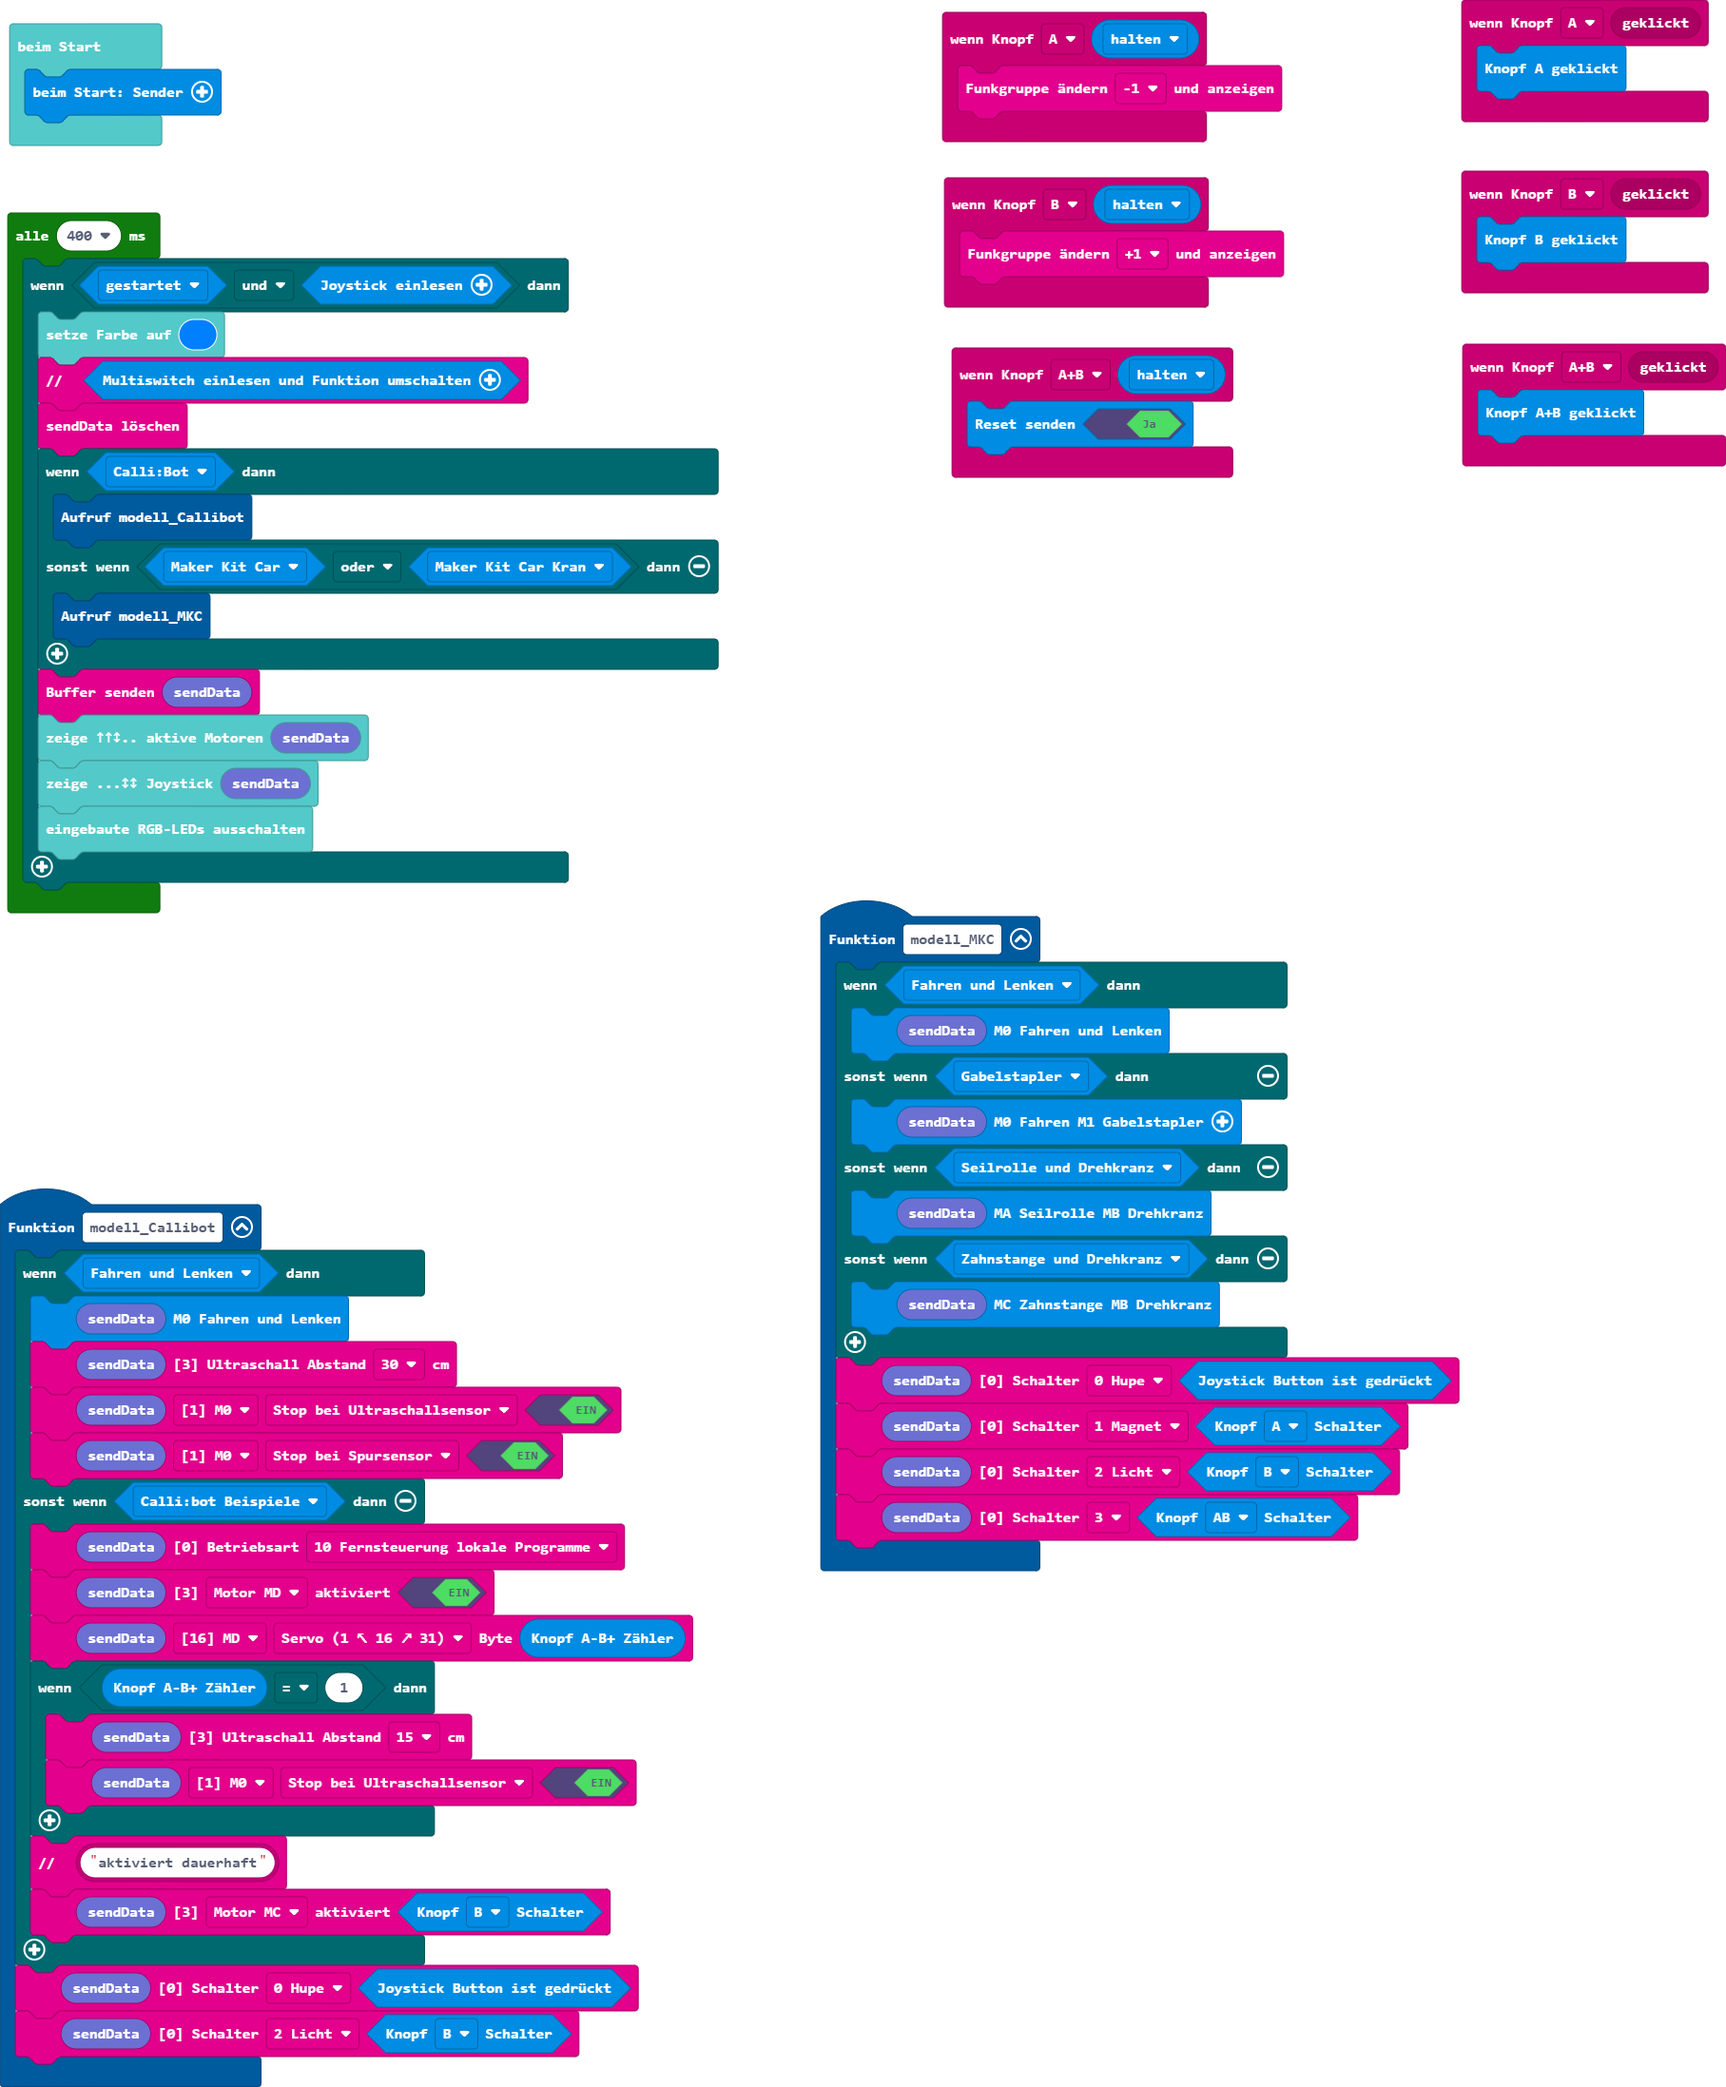
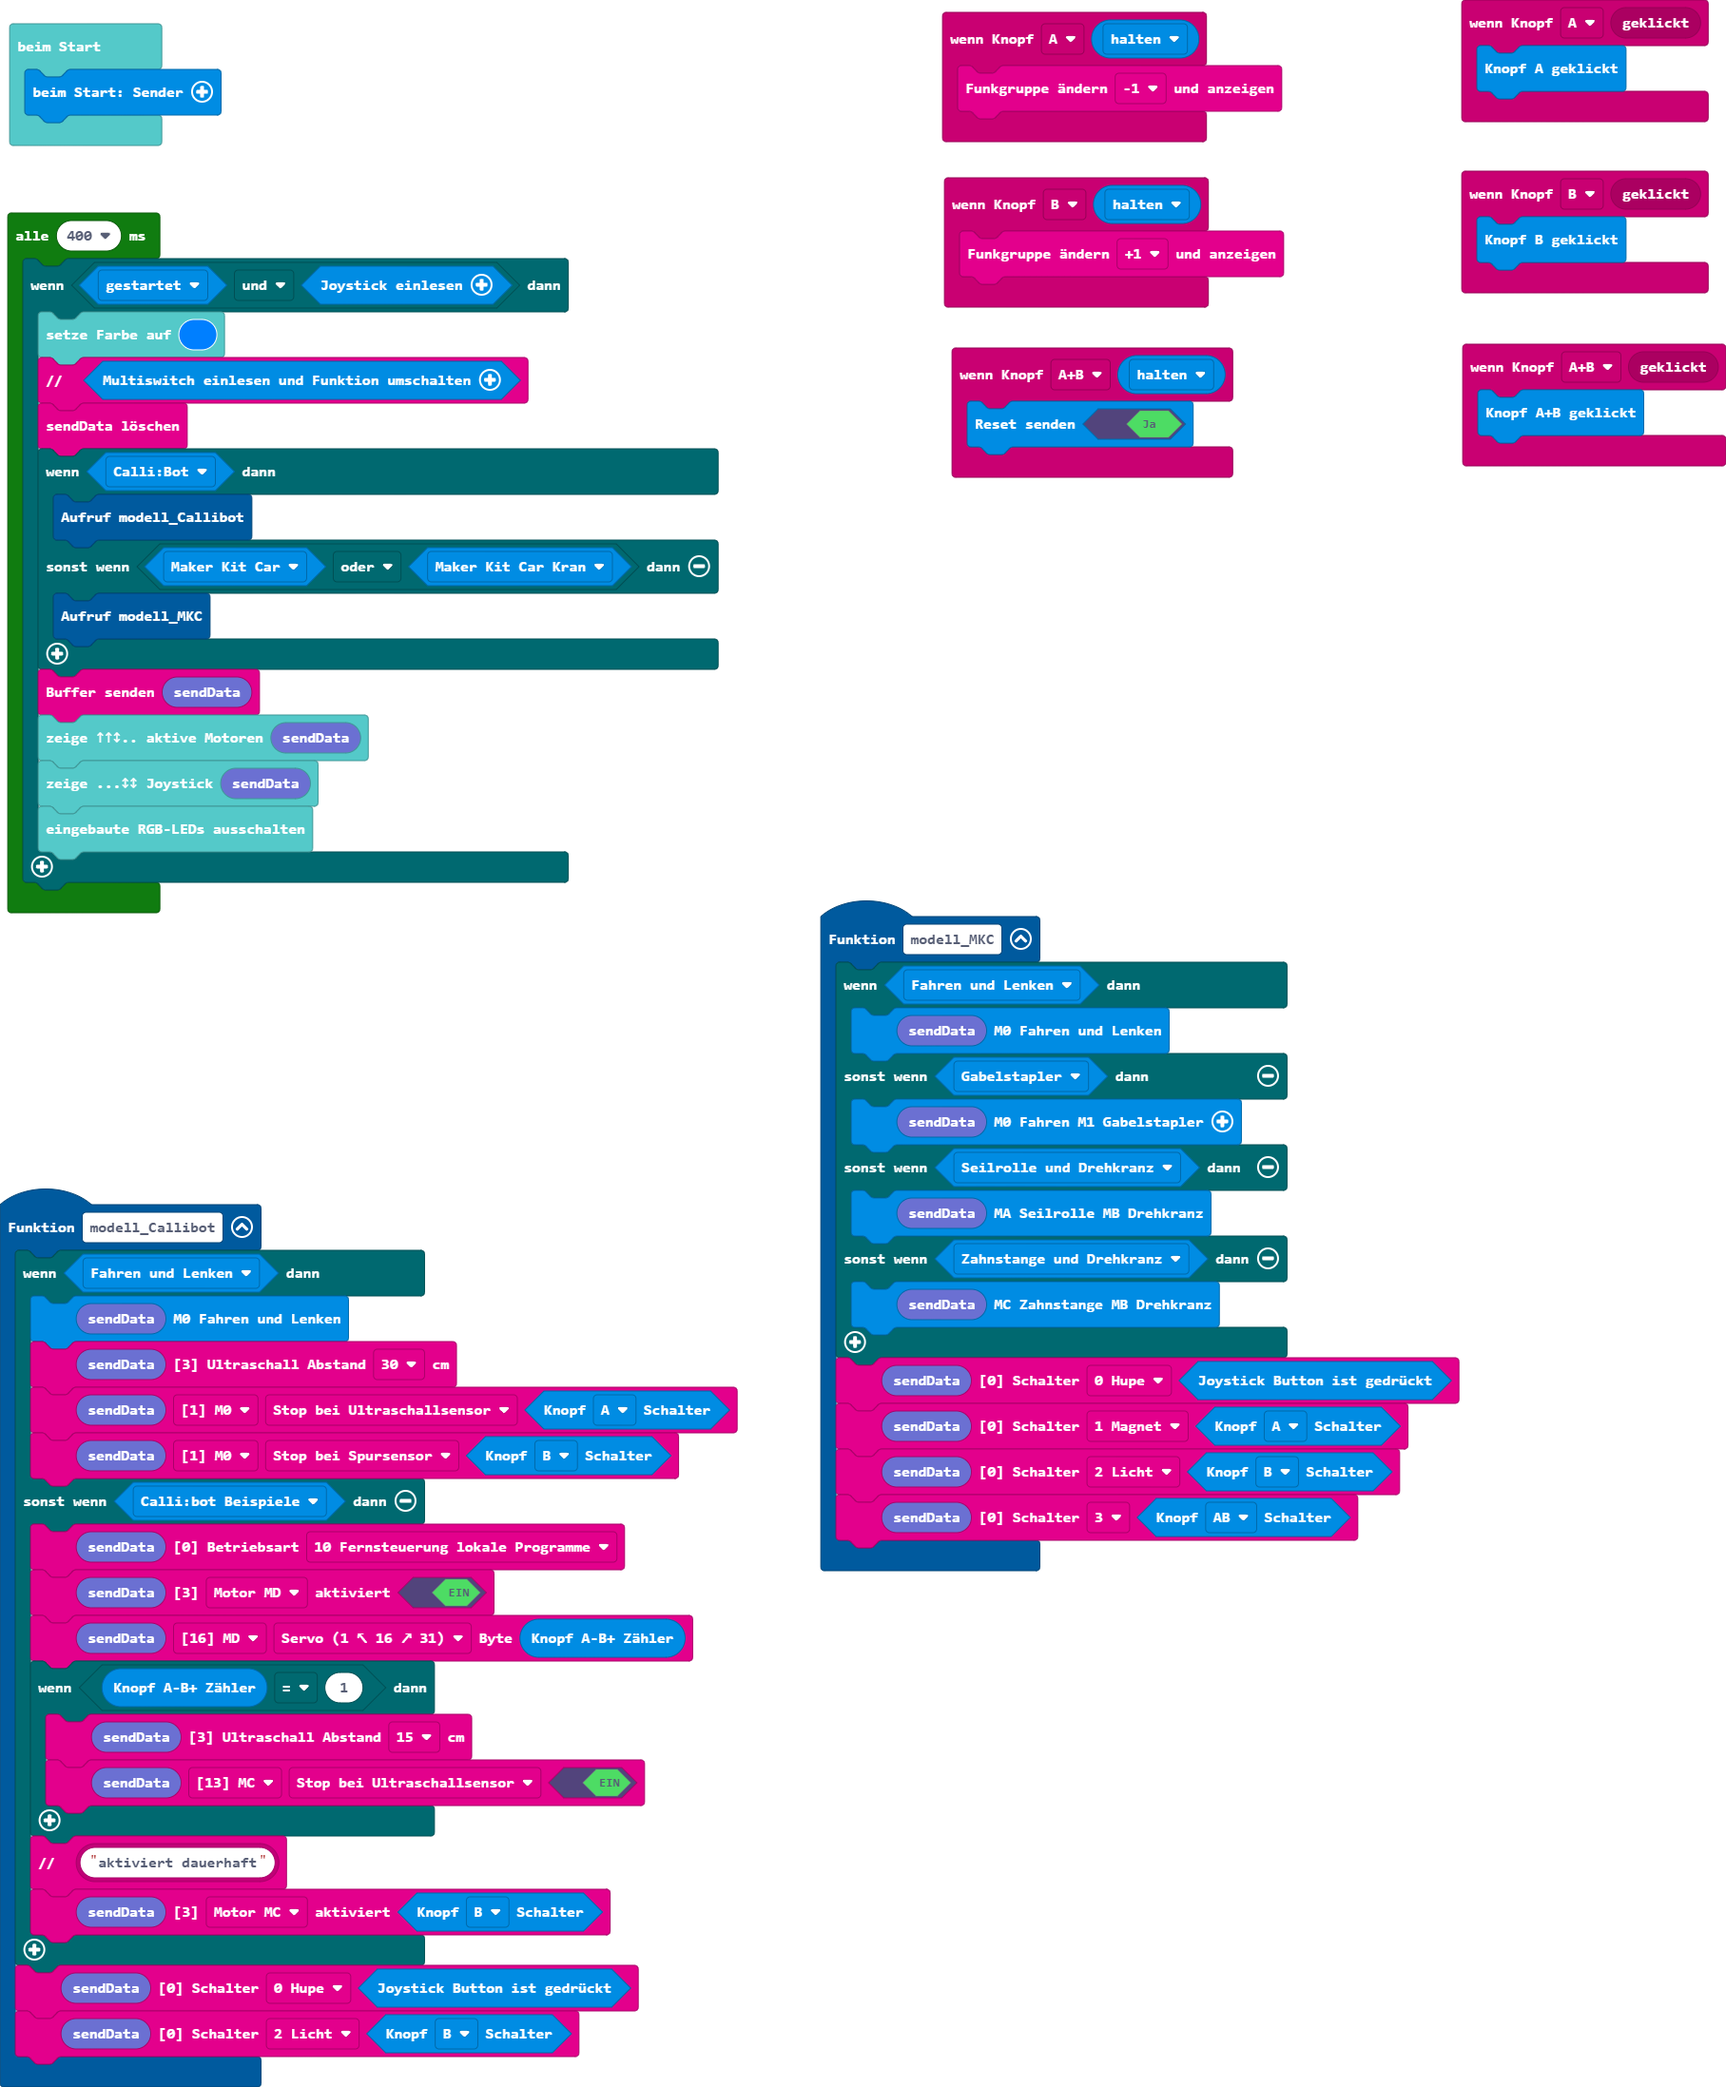
Aktualisiere main.blocks, main.ts

Changed region(s): [[0.2777, 0.6506, 0.432, 0.7125], [0.3085, 0.8364, 0.3702, 0.8674], [0.1234, 0.8364, 0.1851, 0.8674]]

diff --git a/main.ts b/main.ts
@@ -2,15 +2,15 @@ function modell_Callibot () {
     if (sender.isFunktion(sender.eFunktion.m0_s0)) {
         sender.sendM0(btf.btf_sendBuffer19())
         btf.setAbstand(btf.btf_sendBuffer19(), btf.e3Abstand.u3)
-        btf.setSensor(btf.btf_sendBuffer19(), btf.eBufferPointer.m0, btf.eSensor.b6Abstand, true)
-        btf.setSensor(btf.btf_sendBuffer19(), btf.eBufferPointer.m0, btf.eSensor.b5Spur, true)
+        btf.setSensor(btf.btf_sendBuffer19(), btf.eBufferPointer.m0, btf.eSensor.b6Abstand, sender.getButtonAB_Switch(sender.eButtonAB_Switch.A))
+        btf.setSensor(btf.btf_sendBuffer19(), btf.eBufferPointer.m0, btf.eSensor.b5Spur, sender.getButtonAB_Switch(sender.eButtonAB_Switch.B))
     } else if (sender.isFunktion(sender.eFunktion.mc_md_callibot_beispiele)) {
         btf.setBetriebsart(btf.btf_sendBuffer19(), btf.e0Betriebsart.p1)
         btf.setaktiviert(btf.btf_sendBuffer19(), btf.e3aktiviert.md, true)
         btf.setByte(btf.btf_sendBuffer19(), btf.eBufferPointer.md, btf.eBufferOffset.b1_Servo, sender.getButtonAB_Counter())
         if (sender.getButtonAB_Counter() == 1) {
             btf.setAbstand(btf.btf_sendBuffer19(), btf.e3Abstand.u1)
-            btf.setSensor(btf.btf_sendBuffer19(), btf.eBufferPointer.m0, btf.eSensor.b6Abstand, true)
+            btf.setSensor(btf.btf_sendBuffer19(), btf.eBufferPointer.mc, btf.eSensor.b6Abstand, true)
         }
         btf.comment(btf.btf_text("aktiviert dauerhaft"))
         btf.setaktiviert(btf.btf_sendBuffer19(), btf.e3aktiviert.mc, sender.getButtonAB_Switch(sender.eButtonAB_Switch.B))
